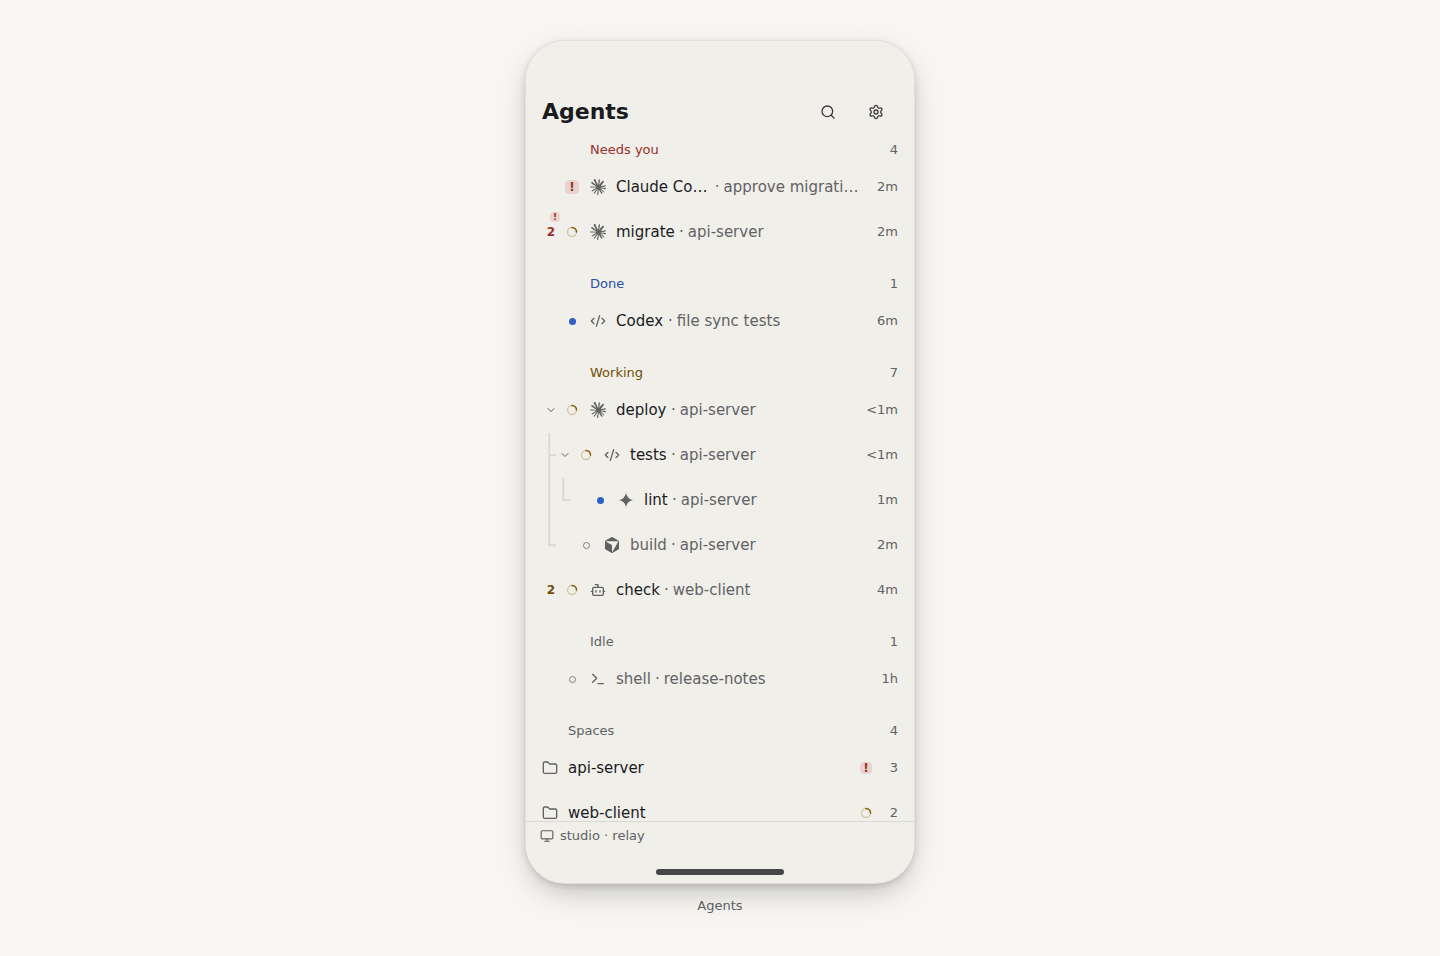
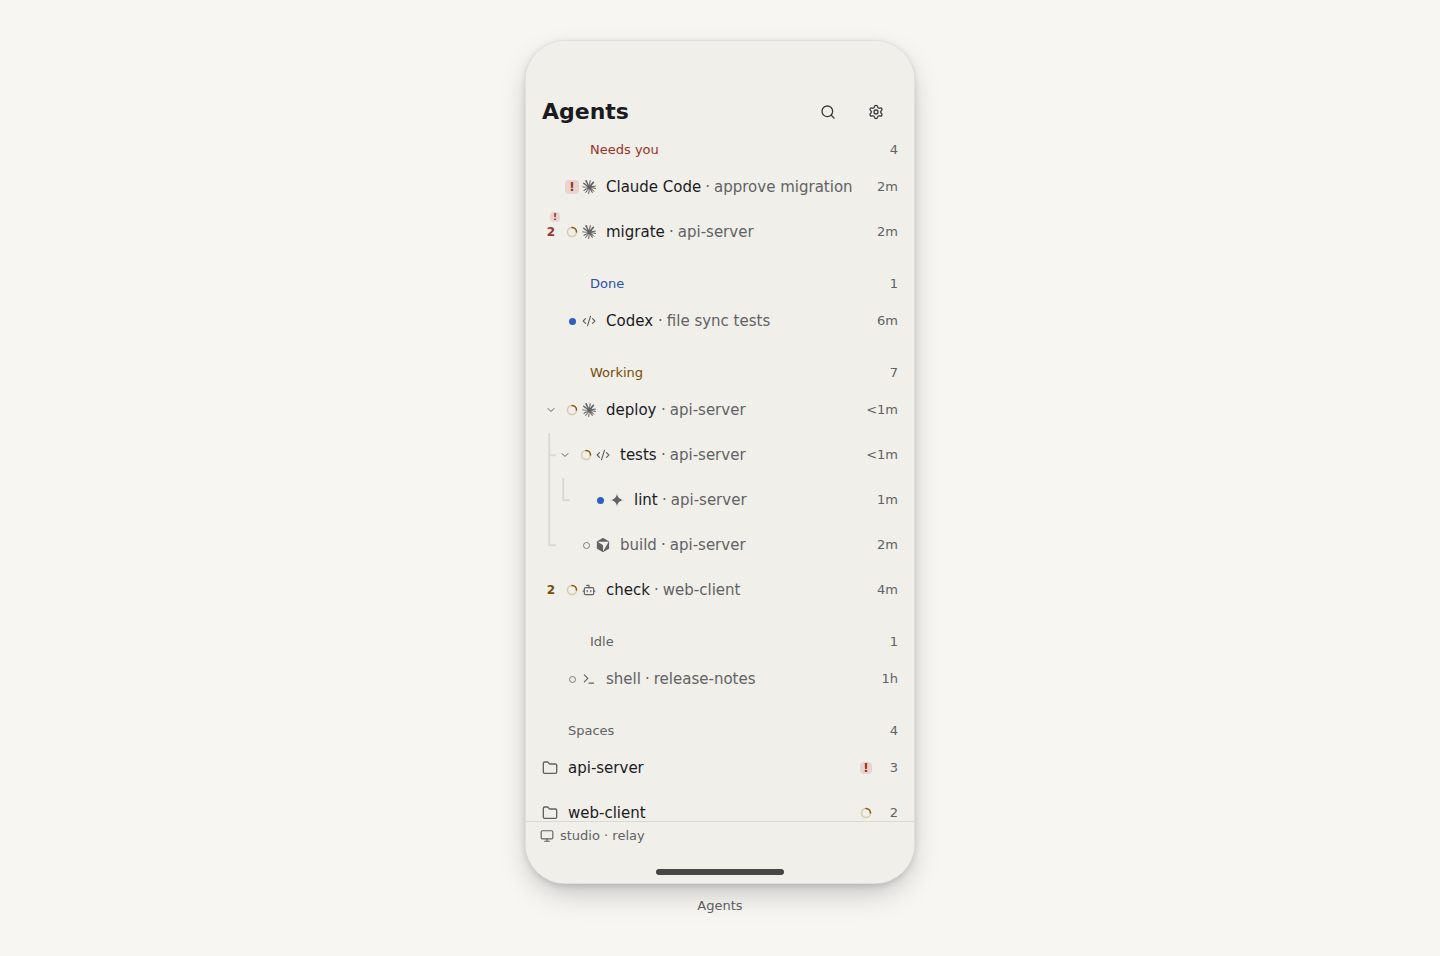
fix(web): the agent mark keeps the section titles over the names and the row floors held (Fixes #2746)

diff --git a/packages/ui/src/components/sidebar-section.tsx b/packages/ui/src/components/sidebar-section.tsx
@@ -9,7 +9,7 @@ export interface SidebarSectionProps {
   readonly action?: ReactNode;
   /** The rows reserve a leading fold column: the title moves right with their label column (18 px and its 4 px gap). */
   readonly indent?: boolean;
-  /** The rows draw a mark before their label (an agent's): the title moves right by it (16 px and its 10 px gap). */
+  /** The rows draw a mark before their label (an agent's): the title moves right by it (14 px and the 2 px before it). */
   readonly marked?: boolean;
   readonly children: ReactNode;
   readonly className?: string;
@@ -17,10 +17,10 @@ export interface SidebarSectionProps {
   readonly ref?: Ref<HTMLElement>;
 }
 
-/** The title's left pad, by [fold column reserved][rows draw a mark]: 34 px, then 22 px for the column, 26 px for the mark. */
+/** The title's left pad, by [fold column reserved][rows draw a mark]: 34 px, then 22 px for the column, 16 px for the mark. */
 const TITLE_PAD = [
-  ["pl-8.5", "pl-15"],
-  ["pl-14", "pl-20.5"],
+  ["pl-8.5", "pl-12.5"],
+  ["pl-14", "pl-18"],
 ] as const;
 
 /** A labelled group in the sidebar. The label names the group; the count is its size. */

diff --git a/packages/ui/src/components/agent-row.tsx b/packages/ui/src/components/agent-row.tsx
@@ -195,7 +195,10 @@ export function AgentRow({
       </span>
       {agent.icon ??
         (agent.kind !== undefined && hasAgentMark(agent.kind) ? (
-          <AgentMark kind={agent.kind} size={16} className="text-muted-foreground" />
+          // 14 px, held 2 px after the status glyph rather than the row's 10 px gap: the glyph draws inside its 16 px box, so
+          // the two read as one cluster, and the mark costs the row's texts 16 px, which a narrow row with a long machine
+          // name can give and still keep five characters of each (#2746).
+          <AgentMark kind={agent.kind} size={14} className="-ml-2 text-muted-foreground" />
         ) : null)}
       <span
         title={agent.name}

diff --git a/apps/web/src/workspace/agents-group.tsx b/apps/web/src/workspace/agents-group.tsx
@@ -177,7 +177,10 @@ export function AgentsGroup({
       </section>
     );
   return (
-    <SidebarSection title="Agents" {...(rail ? { className: "[&>header]:sr-only" } : { action: sortMenu })}>
+    <SidebarSection
+      title="Agents"
+      {...(rail ? { className: "[&>header]:sr-only" } : { action: sortMenu, indent: tree, marked: true })}
+    >
       {list}
     </SidebarSection>
   );
